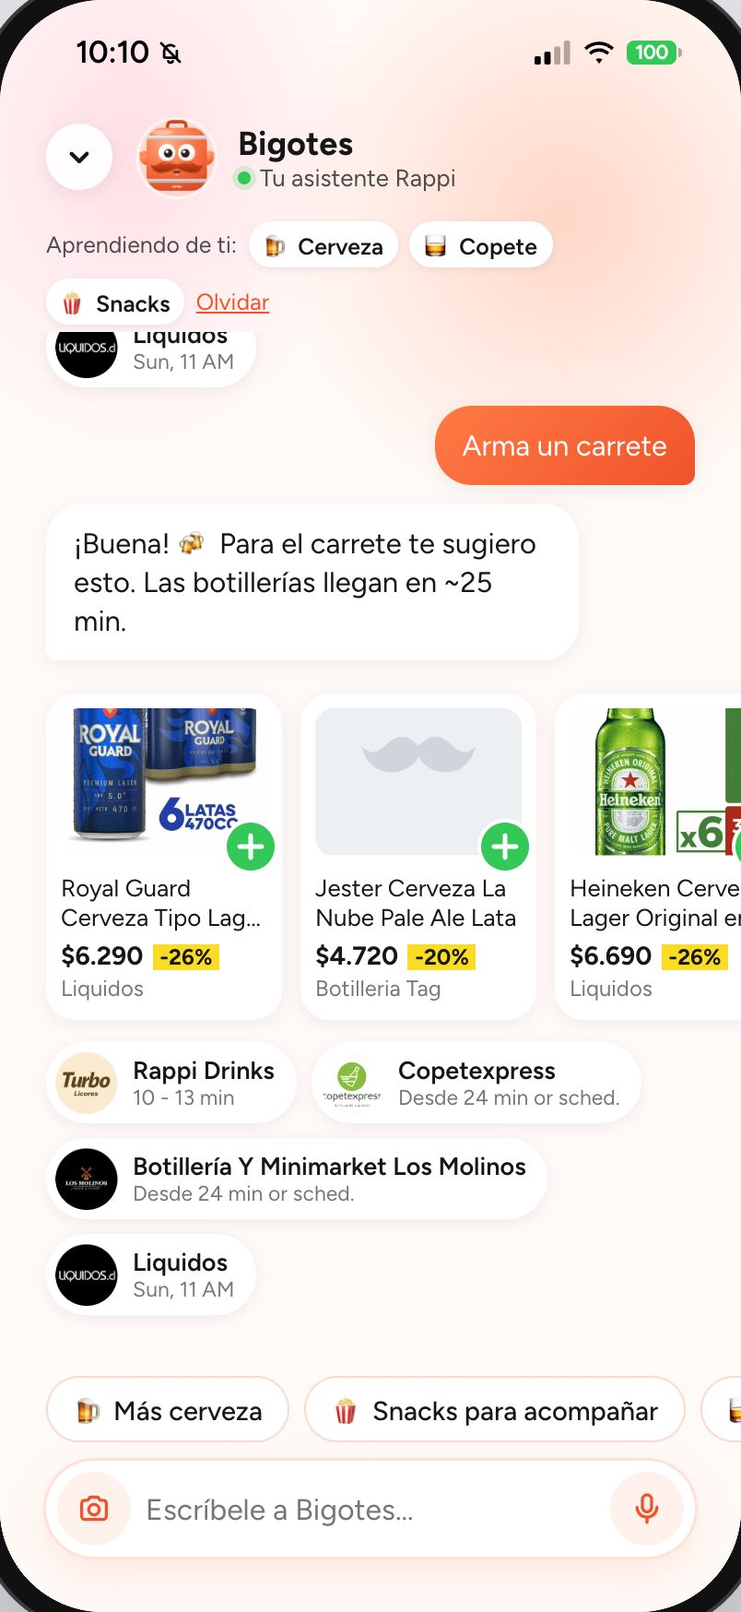
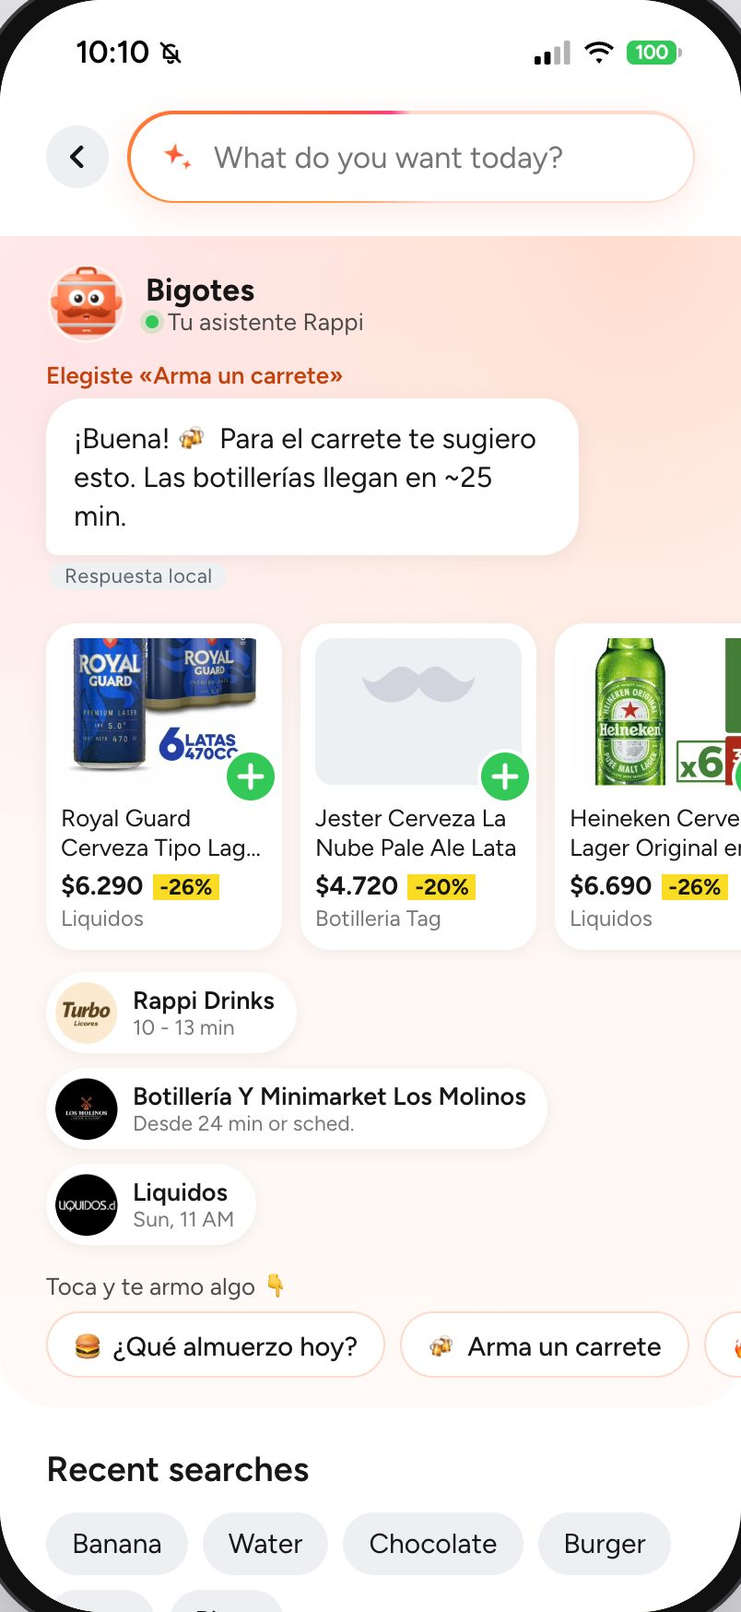
docs(prototipo): textos coherentes con el buscador con Bigotes, README, guion de demo y decisiones
- SmartBar con frases de buscador; montos con punto; título y descripción del index; textos nuevos revisados.
- README del prototipo sin voz ni foto: buscador con Bigotes, hoja de producto, Mis pedidos, Turbo, persistencia; tests 232 (09-10-2026).
- docs: contexto, diseño IA, decisiones (fila 09-10-2026) y guion de demo con «Qué tocar».
- Script de capturas al día (sin voz, imágenes lazy, dos teclas D); captura 20-asistente regenerada.

diff --git a/prototipo-app/src/components/assistant/SmartBar.jsx b/prototipo-app/src/components/assistant/SmartBar.jsx
@@ -2,7 +2,7 @@ import { useEffect, useId, useState } from 'react'
 import { useAssistant } from '../../state/AssistantContext'
 import './smart-bar.css'
 
-const HINTS = ['Pregúntale a Bigotes…', '¿Qué se te antoja hoy?', 'Arma un carrete 🍻']
+const HINTS = ['¿Qué se te antoja hoy?', 'Busca o pídele ideas a Bigotes', 'Arma un carrete 🍻']
 const ROTATE_MS = 3200
 
 export function SparkleIcon({ size = 22 }) {
@@ -48,7 +48,7 @@ export default function SmartBar({ compact = false }) {
       className={compact ? 'smart-bar is-compact' : 'smart-bar'}
       role="button"
       tabIndex={0}
-      aria-label="Abrir asistente"
+      aria-label="Abrir buscador con Bigotes"
       onClick={open}
       onKeyDown={(e) => {
         if (e.target !== e.currentTarget || (e.key !== 'Enter' && e.key !== ' ')) return

diff --git a/prototipo-app/src/screens/vertical/data.js b/prototipo-app/src/screens/vertical/data.js
@@ -151,7 +151,7 @@ export const VERTICALS = {
         peek: { img: a('peek-pets'), top: -3 },
         stores: [
           { id: 'petcity', name: 'PetCity - Atenas', ad: true, logo: a('logo-petcity'), eta: 'Mon, 9 AM', etaIcon: ORANGE_BOLT, promo: 'Up to 15% Off' },
-          { id: 'tusmascotas', name: 'Tus Mascotas', ad: true, logo: a('logo-tusmascotas'), eta: 'Sun, 10 AM', etaIcon: ORANGE_BOLT, promo: '$5,000 Off: min $40K' },
+          { id: 'tusmascotas', name: 'Tus Mascotas', ad: true, logo: a('logo-tusmascotas'), eta: 'Sun, 10 AM', etaIcon: ORANGE_BOLT, promo: '$5.000 Off: min $40K' },
           { id: 'superzoo', name: 'SuperZoo', logo: a('logo-superzoo'), eta: 'Sun, 10 AM', etaIcon: ORANGE_BOLT },
         ],
       },

diff --git a/prototipo-app/index.html b/prototipo-app/index.html
@@ -3,7 +3,11 @@
   <head>
     <meta charset="UTF-8" />
     <meta name="viewport" content="width=device-width, initial-scale=1.0, viewport-fit=cover" />
-    <title>Prototipo Rappi</title>
+    <title>Prototipo Rappi con Bigotes</title>
+    <meta
+      name="description"
+      content="Maqueta navegable de la app de Rappi Chile con Bigotes, un asistente que recomienda entre verticales. Prototipo independiente, no afiliado a Rappi."
+    />
     <!-- Agregada a la pantalla de inicio del iPhone se abre a pantalla completa, sin la barra de Safari -->
     <meta name="apple-mobile-web-app-capable" content="yes" />
     <meta name="mobile-web-app-capable" content="yes" />

diff --git a/prototipo-app/src/screens/home/live/LiveHomeFeed.test.jsx b/prototipo-app/src/screens/home/live/LiveHomeFeed.test.jsx
@@ -84,7 +84,7 @@ describe('Home con Bigotes vivo', () => {
   test('no tiene ícono de chat: Bigotes vive en la Home de cuerpo entero', () => {
     renderHome()
     expect(screen.queryByRole('button', { name: 'Hablar con Bigotes' })).toBeNull()
-    expect(screen.queryByRole('button', { name: 'Abrir asistente' })).toBeNull()
+    expect(screen.queryByRole('button', { name: 'Abrir buscador con Bigotes' })).toBeNull()
     expect(screen.getByText('Tu pasaporte Rappi')).toBeTruthy()
   })
 

diff --git a/prototipo-app/src/screens/orders/OrdersScreen.jsx b/prototipo-app/src/screens/orders/OrdersScreen.jsx
@@ -33,7 +33,7 @@ export default function OrdersScreen({ back, push, reset }) {
       {orders.length === 0 ? (
         <div className="orders-empty">
           <p>Todavía no tienes pedidos</p>
-          <small>Lo que pidas en la demo aparece aquí con su seguimiento.</small>
+          <small>Lo que pidas aparece aquí con su seguimiento.</small>
           <button type="button" className="orders-empty-button tap" onClick={reset}>
             Ir al inicio
           </button>

diff --git a/prototipo-app/src/screens/account/data.js b/prototipo-app/src/screens/account/data.js
@@ -30,7 +30,7 @@ export const SECTIONS = [
   {
     title: 'Benefits',
     rows: [
-      { id: 'credits', label: 'Credits', Icon: CreditsIcon, value: '$1,900' },
+      { id: 'credits', label: 'Credits', Icon: CreditsIcon, value: '$1.900' },
       { id: 'coupons', label: 'Coupons', Icon: CouponIcon },
       { id: 'loyalty', label: 'Loyalty', Icon: LoyaltyIcon, action: 'loyalty' },
     ],

diff --git a/prototipo-app/src/screens/checkout/CheckoutScreen.jsx b/prototipo-app/src/screens/checkout/CheckoutScreen.jsx
@@ -73,7 +73,7 @@ export default function CheckoutScreen({ back, push }) {
         <CheckoutHeader back={back} />
         <p className="checkout-empty">Your cart is empty.</p>
         <button type="button" className="checkout-continue tap" onClick={back}>
-          Seguir comprando
+          Keep shopping
         </button>
       </div>
     )

diff --git a/prototipo-app/src/screens/checkout/CheckoutScreen.test.jsx b/prototipo-app/src/screens/checkout/CheckoutScreen.test.jsx
@@ -157,7 +157,7 @@ describe('carrito vacío', () => {
       </DemoProvider>,
     )
     expect(screen.getByText('Your cart is empty.')).toBeTruthy()
-    fireEvent.click(screen.getByText('Seguir comprando'))
+    fireEvent.click(screen.getByText('Keep shopping'))
     expect(back).toHaveBeenCalled()
   })
 })

diff --git a/prototipo-app/src/screens/store/StoreScreen.jsx b/prototipo-app/src/screens/store/StoreScreen.jsx
@@ -69,7 +69,7 @@ export default function StoreScreen({ back, params }) {
 
   const toggleFavorite = () => {
     favorites.toggle(store)
-    toast(isFavorite ? 'Quitada de favoritos' : 'Agregada a My Favorites')
+    toast(isFavorite ? 'Quitada de favoritos' : 'Agregada a favoritos')
   }
 
   return (

diff --git a/prototipo-app/README.md b/prototipo-app/README.md
@@ -6,8 +6,8 @@ Maqueta navegable de la app de Rappi Chile, hecha a partir de capturas y videos 
 
 Hecho con Vite + React 19. Funciona de dos maneras:
 
-- **Sin backend (modo local):** todo corre en el navegador. Bigotes responde con reglas locales sobre los datos del prototipo; la voz y el análisis de la foto son simulados.
-- **Con la API de [`rappi-ia`](../rappi-ia/):** Bigotes busca en el catálogo real, transcribe la voz con Whisper y reconoce fotos con CLIP. Si la API no responde o tarda más de 8 s, contestan las reglas locales y la burbuja lo marca con «Respuesta local».
+- **Sin backend (modo local):** todo corre en el navegador. Bigotes responde con reglas locales sobre los datos del prototipo y las imágenes que no cargan muestran un respaldo neutro.
+- **Con la API de [`rappi-ia`](../rappi-ia/):** Bigotes busca en el catálogo real. Si la API no responde o tarda más de 8 s, contestan las reglas locales y la respuesta lo marca con «Respuesta local».
 
 ![Modo demo: la misma app en «Propuesta» y en «Rappi hoy» (modo local)](docs/screenshots/00-modo-demo.jpg)
 
@@ -33,9 +33,9 @@ Si la API está corriendo (`cd rappi-ia && make serve`, puerto 8000; carga los m
 - busca en el **catálogo real** con búsqueda híbrida por vertical, con precios vigentes;
 - sugiere un complemento **de otra tienda** en un bloque aparte;
 - arma la fila **"Para ti"** del inicio con lo que aprendió de ti (productos reales de otro vertical, con aviso +18 si corresponde);
-- transcribe la **voz** con Whisper, con micrófono real en `localhost` o `https` (la voz simulada nunca va a la API: no altera tu perfil ni el panel);
-- reconoce **fotos** con CLIP;
 - registra eventos seudónimos y pedidos (uno por vertical) para el [panel de negocio](../dashboard-empresa/).
+
+La API también ofrece `/chat/voice` (Whisper) y `/chat/photo` (CLIP), pero el prototipo actual no los usa: la Propuesta es un buscador, sin micrófono ni cámara.
 
 <img src="docs/screenshots/40-bigotes-api.jpg" width="300" alt="Bigotes con la API: cervezas reales bajo $3.000 y snacks de otra tienda">
 
@@ -48,7 +48,7 @@ Si la API está corriendo (`cd rappi-ia && make serve`, puerto 8000; carga los m
 
 | Comando | Para qué |
 |---|---|
-| `npm test` | Tests (Vitest): Bigotes, buscador, carrito, perfil, navegación, precios, seguimiento, cliente de la API, accesibilidad del asistente |
+| `npm test` | Tests (Vitest): Bigotes, buscador, carrito, perfil, navegación, precios, seguimiento, pedidos, hoja de producto, cliente de la API, accesibilidad del buscador |
 | `npm run lint` | ESLint (reglas de React Hooks) |
 | `npm run format` | Formato con Prettier |
 | `npm run build` | Build de producción en `dist/` |
@@ -56,9 +56,9 @@ Si la API está corriendo (`cd rappi-ia && make serve`, puerto 8000; carga los m
 | `./scripts/export-menus.sh` | Exporta los menús reales desde Postgres a `src/data/generated/menus.json` (fuera de git) |
 | `./scripts/make-icons.sh` | Regenera los íconos de pantalla de inicio desde `scripts/icon.svg` |
 
-Tests: 169 (Vitest, 04-10-2026). CI en GitHub Actions: lint, tests y build.
+Tests: 232 (Vitest, 09-10-2026). CI en GitHub Actions: lint, tests y build.
 
-**Accesibilidad:** el asistente y las hojas inferiores se usan con teclado y VoiceOver (el foco entra al abrir, Escape cierra, Tab no se sale y el foco vuelve al cerrar), y cada respuesta de Bigotes se anuncia completa al lector de pantalla.
+**Accesibilidad:** el buscador con Bigotes y las hojas inferiores se usan con teclado y VoiceOver (el foco entra al abrir, Escape cierra, Tab no se sale y el foco vuelve al cerrar), cada respuesta de Bigotes se anuncia completa al lector de pantalla y las áreas táctiles miden al menos 40 px.
 
 ## Modo demo: Rappi hoy, Propuesta y Bigotes vivo
 
@@ -67,18 +67,26 @@ El interruptor junto al teléfono (tecla **D**, o Account → Modo demo en el ce
 | Rappi hoy | Propuesta |
 |:---:|:---:|
 | <img src="docs/screenshots/02-home-rappi-hoy.jpg" width="300" alt="Home de Rappi hoy"> | <img src="docs/screenshots/01-home-propuesta.jpg" width="300" alt="Home con Bigotes"> |
-| Buscador original | Barra inteligente (chat, foto y voz) y Bigotes arriba a la derecha |
+| Buscador original | La misma barra abre el buscador con Bigotes |
 
 **Bigotes vivo** no tiene chat: Bigotes de cuerpo entero vive en la Home (`src/screens/home/live/`). Al entrar dice qué notó («te encantan los chocolates») y sube ese bloque bajo el buscador con el resto oscurecido; al lado aparece una vertical donde nunca pediste. La Home suma un pasaporte de verticales, «¿Qué plan tienes hoy?» (un kit de varias verticales) y, al tocar a Bigotes, una vertical por probar. Bigotes saluda al llegar, salta, apunta y gira según lo que dice, y en espera mira alrededor, baila o se estira; sin nada que decir se asoma desde el borde y al hacer scroll se esconde, para no tapar la Home. En el celular, «Repetir escena de Bigotes» está en Account. «↺ Repetir escena», junto al interruptor, vuelve a empezar. Respeta «reducir movimiento» del sistema.
 
 ## Lo nuevo de la propuesta
 
-### Bigotes, el asistente
+### Bigotes, el buscador
 
-| Chat (modo local) | Voz (modo local) |
-|:---:|:---:|
-| <img src="docs/screenshots/20-asistente.jpg" width="300" alt="Chat con Bigotes"> | <img src="docs/screenshots/21-voz.jpg" width="300" alt="Bigotes escuchando"> |
-| Responde con productos y tiendas del prototipo. Arriba muestra lo que va aprendiendo ("Aprendiendo de ti: 🍺 Cerveza · 🥃 Copete") y las sugerencias de abajo cambian según eso. | Onda animada mientras escucha. En modo local la voz es simulada (frases de ejemplo). La foto sí se puede tomar o elegir (cámara o galería) y aparece en el chat; sin API no sale del teléfono y la respuesta se arma con tus intereses. Con la API, Whisper transcribe la voz y CLIP reconoce la foto. |
+En la Propuesta no hay chat escrito, voz ni foto: la barra de la Home («¿Qué se te antoja hoy?») abre el buscador con Bigotes, que reúne el buscador de siempre y lo que Bigotes sabe de ti:
+
+- **Aprendiendo de ti:** arriba muestra lo que va aprendiendo («🍺 Cerveza · 🥃 Copete») y un botón **Olvidar** que lo borra, también en la API.
+- **Toca y te armo algo:** botones con ideas («¿Qué almuerzo hoy?», «Arma un carrete», «Algo dulce») que cambian según lo aprendido. Al tocar uno, Bigotes responde con productos y tiendas; si abres una tienda desde ahí y vuelves, la búsqueda sigue donde estaba.
+- **El campo de búsqueda** encuentra tiendas y productos; debajo siguen «Recent searches» y «Popular stores», como en la app.
+- **Descubre con Bigotes:** las verticales que todavía no exploraste («Exploraste 3 de 9»), cada una con una entrada para probarla.
+
+<img src="docs/screenshots/20-asistente.jpg" width="300" alt="Buscador con Bigotes tras tocar «Arma un carrete»">
+
+*Buscador con Bigotes tras tocar «Arma un carrete» (modo local).*
+
+La captura `docs/screenshots/21-voz.jpg` es de una versión anterior del prototipo (voz), que ya no existe.
 
 Diseño y animaciones del personaje: [`design/bigotes.html`](design/bigotes.html) (descargar y abrir en el navegador).
 
@@ -104,8 +112,12 @@ Capturas en modo local: las reglas locales usan los productos del prototipo. Con
 
 También:
 
+- **Hoja de producto:** al tocar un producto se abre una hoja con la cantidad, notas para la tienda y el total, y desde ahí se puede ir a la tienda.
+- **Mis pedidos** (en Account): cada pedido hecho en el prototipo abre su seguimiento, en curso o entregado; el carro, los favoritos, la dirección y Loyalty se guardan en el navegador y sobreviven a una recarga.
+- **Turbo** con productos y categorías (Frescos, Despensa, Picoteo) que se agregan al carro, además de las pestañas Favorites, Offers y Categories.
 - **Menús reales** de los restaurantes descargados por el scraper, en la sección "Cerca de ti" de Restaurants, con pestañas por sección. Son opcionales: se exportan con `./scripts/export-menus.sh` y no van en git ni en las capturas.
 - **Loyalty**, con un programa de fidelización vinculable.
+- **Si algo falla:** una pantalla con error muestra «Algo salió mal» y «Volver al inicio» sin cerrar la app, y una imagen que no carga muestra un respaldo neutro.
 
 <img src="docs/screenshots/28-loyalty-vinculado.jpg" width="240" alt="Loyalty con un programa vinculado">
 
@@ -127,25 +139,25 @@ Además: Pharmacy, Retail, Express, Pet, Chocolates, Loyalty, buscador, página 
 
 ## Qué es real y qué es simulado
 
-- **Real:** las pantallas (recortes de las capturas), los precios y productos que se ven en ellas, los menús del scraper (si se exportan), el carrito y el historial del navegador.
-  - **Con la API** también son reales: la búsqueda, los productos y precios que muestra Bigotes, la voz (Whisper) y el reconocimiento de foto (CLIP).
+- **Real:** las pantallas (recortes de las capturas), los precios y productos que se ven en ellas, los menús del scraper (si se exportan), el carrito, los pedidos y el historial del navegador.
+  - **Con la API** también son reales: la búsqueda y los productos y precios que muestra Bigotes.
 - **Simulado:** el pago y el seguimiento.
-  - **Sin la API** también son simuladas las respuestas de Bigotes (reglas sobre los datos del prototipo), la voz (frases de ejemplo) y la foto. En el iPhone por `http://` la voz siempre es simulada, porque Safari solo da el micrófono en `https`.
-- **Privacidad:** el id de usuario es seudónimo (`proto-…`, guardado en este navegador). La foto y el audio no se guardan. "Olvidar" borra lo aprendido también en la API. En modo "Rappi hoy" no se aprende.
+  - **Sin la API** también son simuladas las respuestas de Bigotes (reglas sobre los datos del prototipo).
+- **Privacidad:** el id de usuario es seudónimo (`proto-…`, guardado en este navegador). El carro, los favoritos, la dirección, Loyalty y los pedidos también se guardan solo en este navegador. "Olvidar" borra lo aprendido también en la API. En modo "Rappi hoy" no se aprende.
 - **Supuestos:** textos cortados en el borde de las capturas, algunos ratings y tiempos de entrega; están marcados como "supuesto" en los archivos `data.js`.
 
 ## Estructura
 
 ```text
 src/
-├── api/            Cliente de la API de rappi-ia (chat, voz, foto, "Para ti", pedidos); si no responde, modo local
+├── api/            Cliente de la API de rappi-ia (chat, "Para ti", pedidos); si no responde, modo local
 ├── assistant/      Bigotes local: temas, respuestas y recomendaciones (lógica pura, con tests)
 ├── assets/         Recortes de las capturas
-├── components/     Piezas compartidas; assistant/ tiene la mascota, la barra inteligente y el chat
+├── components/     Piezas compartidas; assistant/ tiene la mascota, la barra de la Home, el buscador con Bigotes y Descubre
 ├── data/           Catálogo y buscador; menús reales opcionales
 ├── hooks/          Navegación con historial, scroll
 ├── screens/        Una carpeta por pantalla (home, deals, vertical, checkout, tracking…)
-├── state/          Carrito, perfil, pedidos, modo demo, dirección…
+├── state/          Carrito, perfil, pedidos, hoja de producto, modo demo, dirección… (varios persisten en localStorage)
 └── styles/         Tokens de diseño y estilos globales
 design/bigotes.html Ficha del personaje
 docs/screenshots/   Capturas de este README

diff --git a/docs/demo.md b/docs/demo.md
@@ -14,22 +14,29 @@ cd dashboard-empresa && npm run dev  # http://localhost:5175
 
 1. Abre el prototipo y deja el modo **Propuesta** (arriba a la izquierda; la tecla **D** alterna con «Rappi hoy»).
 2. Abre el panel en otra pestaña y elige la fuente **Prototipo**: ahí aparece lo que se haga en la demo.
-3. Justo antes de presentar, con la API arriba: `cd rappi-ia && make warm`. Pasa por las frases del guion sin registrarlas: en frío la primera respuesta tarda de 2 a 5 s; después, menos de medio segundo. Repetirlo si la API pasó un rato sin uso.
-4. Para empezar sin rastros de pruebas anteriores, en el chat toca **Olvidar**: borra los eventos y pedidos del usuario de este navegador, y el chat lo confirma. Lo que se probó desde otros navegadores sigue en la fuente Prototipo.
+3. Justo antes de presentar, con la API arriba: `cd rappi-ia && make warm`. Pasa por los botones del guion sin registrarlos: en frío la primera respuesta tarda de 2 a 5 s; después, menos de medio segundo. Repetirlo si la API pasó un rato sin uso.
+4. Para empezar sin rastros de pruebas anteriores, toca la barra de la Home («¿Qué se te antoja hoy?») para abrir el buscador con Bigotes y, arriba, en «Aprendiendo de ti», toca **Olvidar**: borra lo aprendido y los eventos del usuario de este navegador, y Bigotes lo confirma («Listo, olvidé lo que aprendí de ti»). El botón solo aparece si Bigotes ya aprendió algo. Lo que se probó desde otros navegadores sigue en la fuente Prototipo.
 
 ## Recorrido
 
-| # | Qué escribir en el chat | Qué mostrar | Qué decir |
+En la Propuesta no se escribe en un chat: la barra de la Home abre el buscador con Bigotes y se toca. El campo de arriba busca tiendas y productos; las ideas de Bigotes están en los botones de «Toca y te armo algo».
+
+| # | Qué tocar | Qué mostrar | Qué decir |
 |---|---|---|---|
-| 1 | `una hamburguesa` | Hamburguesas de restaurantes y, aparte, **«De Licores · ¿Te tinca sumar bebidas gaseosas? Porque llevas 🍔 hamburguesa»** con su botón «Ver más en Licores». | La búsqueda no se mezcla: responde en su vertical. Lo de otra vertical va aparte, una sola vez y con su razón a la vista. |
-| 2 | `vino tinto` | Vinos de Licores, quesos del súper y la fila **«También en»**: Express, Súper y Turbo con el logo y el nombre de tiendas reales. | El mismo concepto existe en varias verticales: hoy cada una lo muestra por separado. |
-| 3 | `algo para el carrete` | Va directo a Licores sin preguntar y sugiere desde Express. | Entiende ocasiones, no solo productos. |
-| 4 | `tengo fiebre` | Remedios de Farmacia para la fiebre (sin receta), sin venta cruzada. | Entiende la necesidad y lleva a la vertical que la resuelve; lo que pide receta nunca se ofrece. |
-| 4b | `me voy de vacaciones a la playa` (o `a la nieve`) | **RappiTravel** con su botón y, aparte, protector solar de Farmacia «Para tu viaje ✈» (con «nieve», una chaqueta del Mall). | Rappi no es solo catálogo: los servicios (viajes, favores) también enganchan productos de otras verticales. |
-| 4c | `se me quedaron las llaves en la oficina` | **RappiFavor** con su botón; en la Home el acceso a RappiFavor está habilitado (en «Rappi hoy» aparece no disponible, como en la app). | Lo que hoy está apagado puede ser la salida para lo que el catálogo no tiene. |
-| 5 | Agrega al carro un producto de la sugerencia (paso 1) y paga. | El pedido se confirma. | — |
+| 1 | La barra de la Home y, en «Toca y te armo algo», **🍻 Arma un carrete** | Va directo a Licores sin preguntar: cervezas, licores y snacks, y las botillerías. Con la API, productos reales del catálogo, la sugerencia de otra vertical aparte y la fila **«También en»** (otras verticales con tiendas reales). | Entiende ocasiones, no solo productos. El mismo concepto existe en varias verticales: hoy cada una lo muestra por separado. |
+| 2 | **🍔 ¿Qué almuerzo hoy?** | Solo restaurantes que llegan rápido, sin mezclar con lo anterior. | La búsqueda no se mezcla: responde en su vertical. |
+| 3 | Arriba, «Aprendiendo de ti» ya muestra lo que Bigotes notó, y los botones cambiaron: toca **🍺 Más cerveza** | Cervezas y, aparte, un bloque **«¿Te tinca sumar snacks? Porque llevas 🍺 cerveza»** con productos de otra vertical y su botón «Ver más en …». | Cada toque enseña: las ideas siguientes salen de lo que la persona ya pidió. Lo de otra vertical va aparte, una sola vez y con su razón a la vista. |
+| 4 | Un producto de la respuesta → en la tienda, bajo **«Lo que elegiste»**, tócalo de nuevo. | Se abre la hoja del producto: cantidad, notas para la tienda y el total. **Agregar.** | Lo que Bigotes recomienda se compra con el mismo flujo de la app, sin salir a otra pantalla. |
+| 4b | Volver con la flecha del panel. | El buscador con Bigotes se reabre donde estaba, con la misma respuesta. | Bigotes no es otro canal: es parte del buscador, y se vuelve a él como a cualquier pantalla. |
+| 4c | Sobre la barra del carro aparece el aviso de Bigotes **«¿Te tinca sumar …?»**: tócalo. | Abre el buscador con ese complemento ya buscado. | Una sugerencia por tema por sesión: acompaña, no insiste. |
+| 5 | Abre el carro, revisa y recarga la página. | El carro sigue ahí (se guarda en el navegador). **Checkout** → delivery o retiro, propina y desglose → pagar. | El pedido se confirma; el pago es un texto de ejemplo. |
+| 5b | **Account → Orders** (o «See all» en Recent orders) | **Mis pedidos**: el pedido recién hecho con su seguimiento en curso; al tocarlo, el mapa con Bigotes recorriendo la ruta. | El seguimiento avanza solo, para la demo. |
 | 6 | En el panel: **Entre verticales**, fuente Prototipo. Si el panel ya estaba ahí, toca **Actualizar** (junto a la fecha de corte). | «Bigotes entre verticales»: suben las mostradas, aceptadas y convertidas. | Cada sugerencia queda medida: se ve si se acepta y si termina en compra. |
-| 7 | En el panel, fuente **Simulados**: Resumen y Oportunidades. | Las decisiones de la semana y lo que la gente pide y no encuentra. | Con datos simulados: muestra la mecánica, no resultados. Con datos de Rappi se mide de verdad. |
+| 7 | De vuelta en el buscador con Bigotes, baja hasta **Descubre con Bigotes** y toca **Explorar** en una tarjeta. | «Exploraste N de 9» con las verticales sin probar; la tarjeta dice por qué (p. ej. «Te gusta 🍺 cerveza → 🍿 Snacks en Express») y abre esa vertical. | Lo aprendido también sirve para llevar a la persona a verticales donde nunca pidió. |
+| 7b | En la Home, el acceso **Turbo**. | Productos por categoría (Frescos, Despensa, Picoteo) que se agregan al carro. | Opcional: muestra que la compra rápida también vive en el prototipo. |
+| 8 | En el panel, fuente **Simulados**: Resumen y Oportunidades. | Las decisiones de la semana y lo que la gente pide y no encuentra. | Con datos simulados: muestra la mecánica, no resultados. Con datos de Rappi se mide de verdad. |
+
+Con la API, los productos y precios de los pasos 1 a 3 salen del catálogo real y la sugerencia de otra vertical la decide Bigotes en el servidor (con «Respuesta local» si la API no contestó). Los botones **🍫 Algo dulce**, **🎁 Un regalo** y **🔥 Ofertas de hoy**, y el campo de búsqueda (tiendas y productos, con «Recent searches» y «Popular stores» como en la app) quedan para preguntas del público.
 
 ### Tercer prototipo: Bigotes vivo (2 minutos, opcional)
 

diff --git a/README.md b/README.md
@@ -7,7 +7,7 @@ Prototipo que muestra cómo lo que una persona hace en un vertical de Rappi (sup
 
 [![CI](https://github.com/yungzyx/rappi-dlab/actions/workflows/ci.yml/badge.svg)](https://github.com/yungzyx/rappi-dlab/actions/workflows/ci.yml)
 
-<img src="prototipo-app/docs/screenshots/00-modo-demo.jpg" width="320" alt="Prototipo en modo Propuesta: barra para preguntarle a Bigotes por texto, foto o voz">
+<img src="prototipo-app/docs/screenshots/00-modo-demo.jpg" width="320" alt="Prototipo en modo Propuesta: la barra de la Home abre el buscador con Bigotes">
 
 *Prototipo navegable. El interruptor de arriba (tecla **D**) alterna entre la app como es hoy y la propuesta.*
 
@@ -54,7 +54,7 @@ El panel de negocio muestra cómo se mediría el efecto (frecuencia, abandono, s
 | [`prototipo-app/`](prototipo-app/) | Réplica navegable de la app (Vite + React) con modo «Rappi hoy» / «Propuesta». Funciona sin backend; con la API usa el catálogo real. | Capturas de la app; catálogo real opcional |
 | [`dashboard-empresa/`](dashboard-empresa/) | Panel de negocio: demanda no satisfecha, tendencias, frecuencia, abandono, cruce entre verticales y salud del catálogo. | Simulados, salvo la pestaña Catálogo (real) |
 
-**Bigotes** es el asistente del prototipo: la mochila de Rappi con bigote. Conversa por texto, voz o foto y busca en el vertical donde está la persona. Sugiere como máximo un complemento de otro vertical. También reconoce los servicios sin catálogo: un viaje lleva a **RappiTravel** (con protector solar o traje de baño de otra vertical), un envío o un trámite a **RappiFavor**, y lo que no está en el catálogo se puede pedir con RappiFavor. Sin clave de API responde con plantillas; con clave, Claude solo redacta sobre lo que el código ya recuperó y verificó.
+**Bigotes** es el asistente del prototipo: la mochila de Rappi con bigote. Conversa por texto, voz o foto (la API; el prototipo actual solo usa el texto) y busca en el vertical donde está la persona. Sugiere como máximo un complemento de otro vertical. También reconoce los servicios sin catálogo: un viaje lleva a **RappiTravel** (con protector solar o traje de baño de otra vertical), un envío o un trámite a **RappiFavor**, y lo que no está en el catálogo se puede pedir con RappiFavor. Sin clave de API responde con plantillas; con clave, Claude solo redacta sobre lo que el código ya recuperó y verificó.
 
 ## Arquitectura
 
@@ -162,7 +162,7 @@ cd prototipo-app && npm ci && npm run dev       # http://localhost:5174
 cd dashboard-empresa && npm ci && npm run dev   # http://localhost:5175
 ```
 
-- **Prototipo:** la tecla **D** (o Account → Settings → Modo demo en el celular) alterna «Propuesta», «Rappi hoy» y «Bigotes vivo» (tercer prototipo: Bigotes vive en la Home y la ordena, sin chat). Sin la API, Bigotes responde con reglas locales sobre los datos de las capturas y lo marca con «Respuesta local».
+- **Prototipo:** la tecla **D** (o Account → Settings → Modo demo en el celular) alterna «Propuesta» (la barra de la Home abre el buscador con Bigotes: lo aprendido con «Olvidar», ideas para tocar, búsqueda de tiendas y productos y «Descubre con Bigotes»; sin chat escrito, voz ni foto), «Rappi hoy» y «Bigotes vivo» (tercer prototipo: Bigotes vive en la Home y la ordena, sin chat). Sin la API, Bigotes responde con reglas locales sobre los datos de las capturas y lo marca con «Respuesta local».
 - **Panel:** sin la API usa respuestas guardadas (`src/fixtures/`) y lo avisa («Modo sin conexión (datos guardados)»). Cada bloque indica si su dato es simulado o real.
 
 ### Correr la demo completa (catálogo real)
@@ -175,7 +175,7 @@ cd prototipo-app && npm run dev       # http://localhost:5174
 cd dashboard-empresa && npm run dev   # http://localhost:5175
 ```
 
-Con la API, Bigotes busca en el catálogo real con precios vigentes, sugiere complementos de otro vertical, transcribe la voz (Whisper) y reconoce fotos (CLIP). La API no tiene autenticación y por defecto escucha solo en el equipo local. `make serve-lan` la abre a la red local para probar desde un iPhone: solo en una red de confianza.
+Con la API, Bigotes busca en el catálogo real con precios vigentes y sugiere complementos de otro vertical; la API también transcribe voz (Whisper) y reconoce fotos (CLIP), aunque el prototipo actual no usa esas dos entradas. La API no tiene autenticación y por defecto escucha solo en el equipo local. `make serve-lan` la abre a la red local para probar desde un iPhone: solo en una red de confianza.
 
 ### Actualización semanal
 
@@ -256,7 +256,7 @@ Con la API, Bigotes busca en el catálogo real con precios vigentes, sugiere com
 - Catálogo público completo (24 al 27-09-2026), recuperación de fallidos (28-09) y primera descarga semanal automática (29 y 30-09).
 - Capa 2 de conceptos, embeddings al 100 % y búsqueda híbrida evaluada.
 - Capa de datos para otras herramientas (06-10-2026): atributos, medidas, marcas y producto canónico, grafo de conocimiento y segmentos de usuario, con el esquema estable `capa`, corrección de falsos positivos por nombre y revisión independiente por etapa ([docs/capa-de-datos.md](docs/capa-de-datos.md)).
-- Bigotes con API (texto, voz y foto) y prototipo con modo «Rappi hoy» / «Propuesta».
+- Bigotes con API (texto, voz y foto) y prototipo con modos «Rappi hoy» / «Propuesta» / «Bigotes vivo» (la Propuesta usa solo el texto, como buscador).
 - Panel de negocio con datos simulados rotulados y la pestaña Catálogo real.
 - Actualización semanal automática y CI con 4 jobs más uno semanal de modelos.
 - Mejoras del 28-09-2026:
